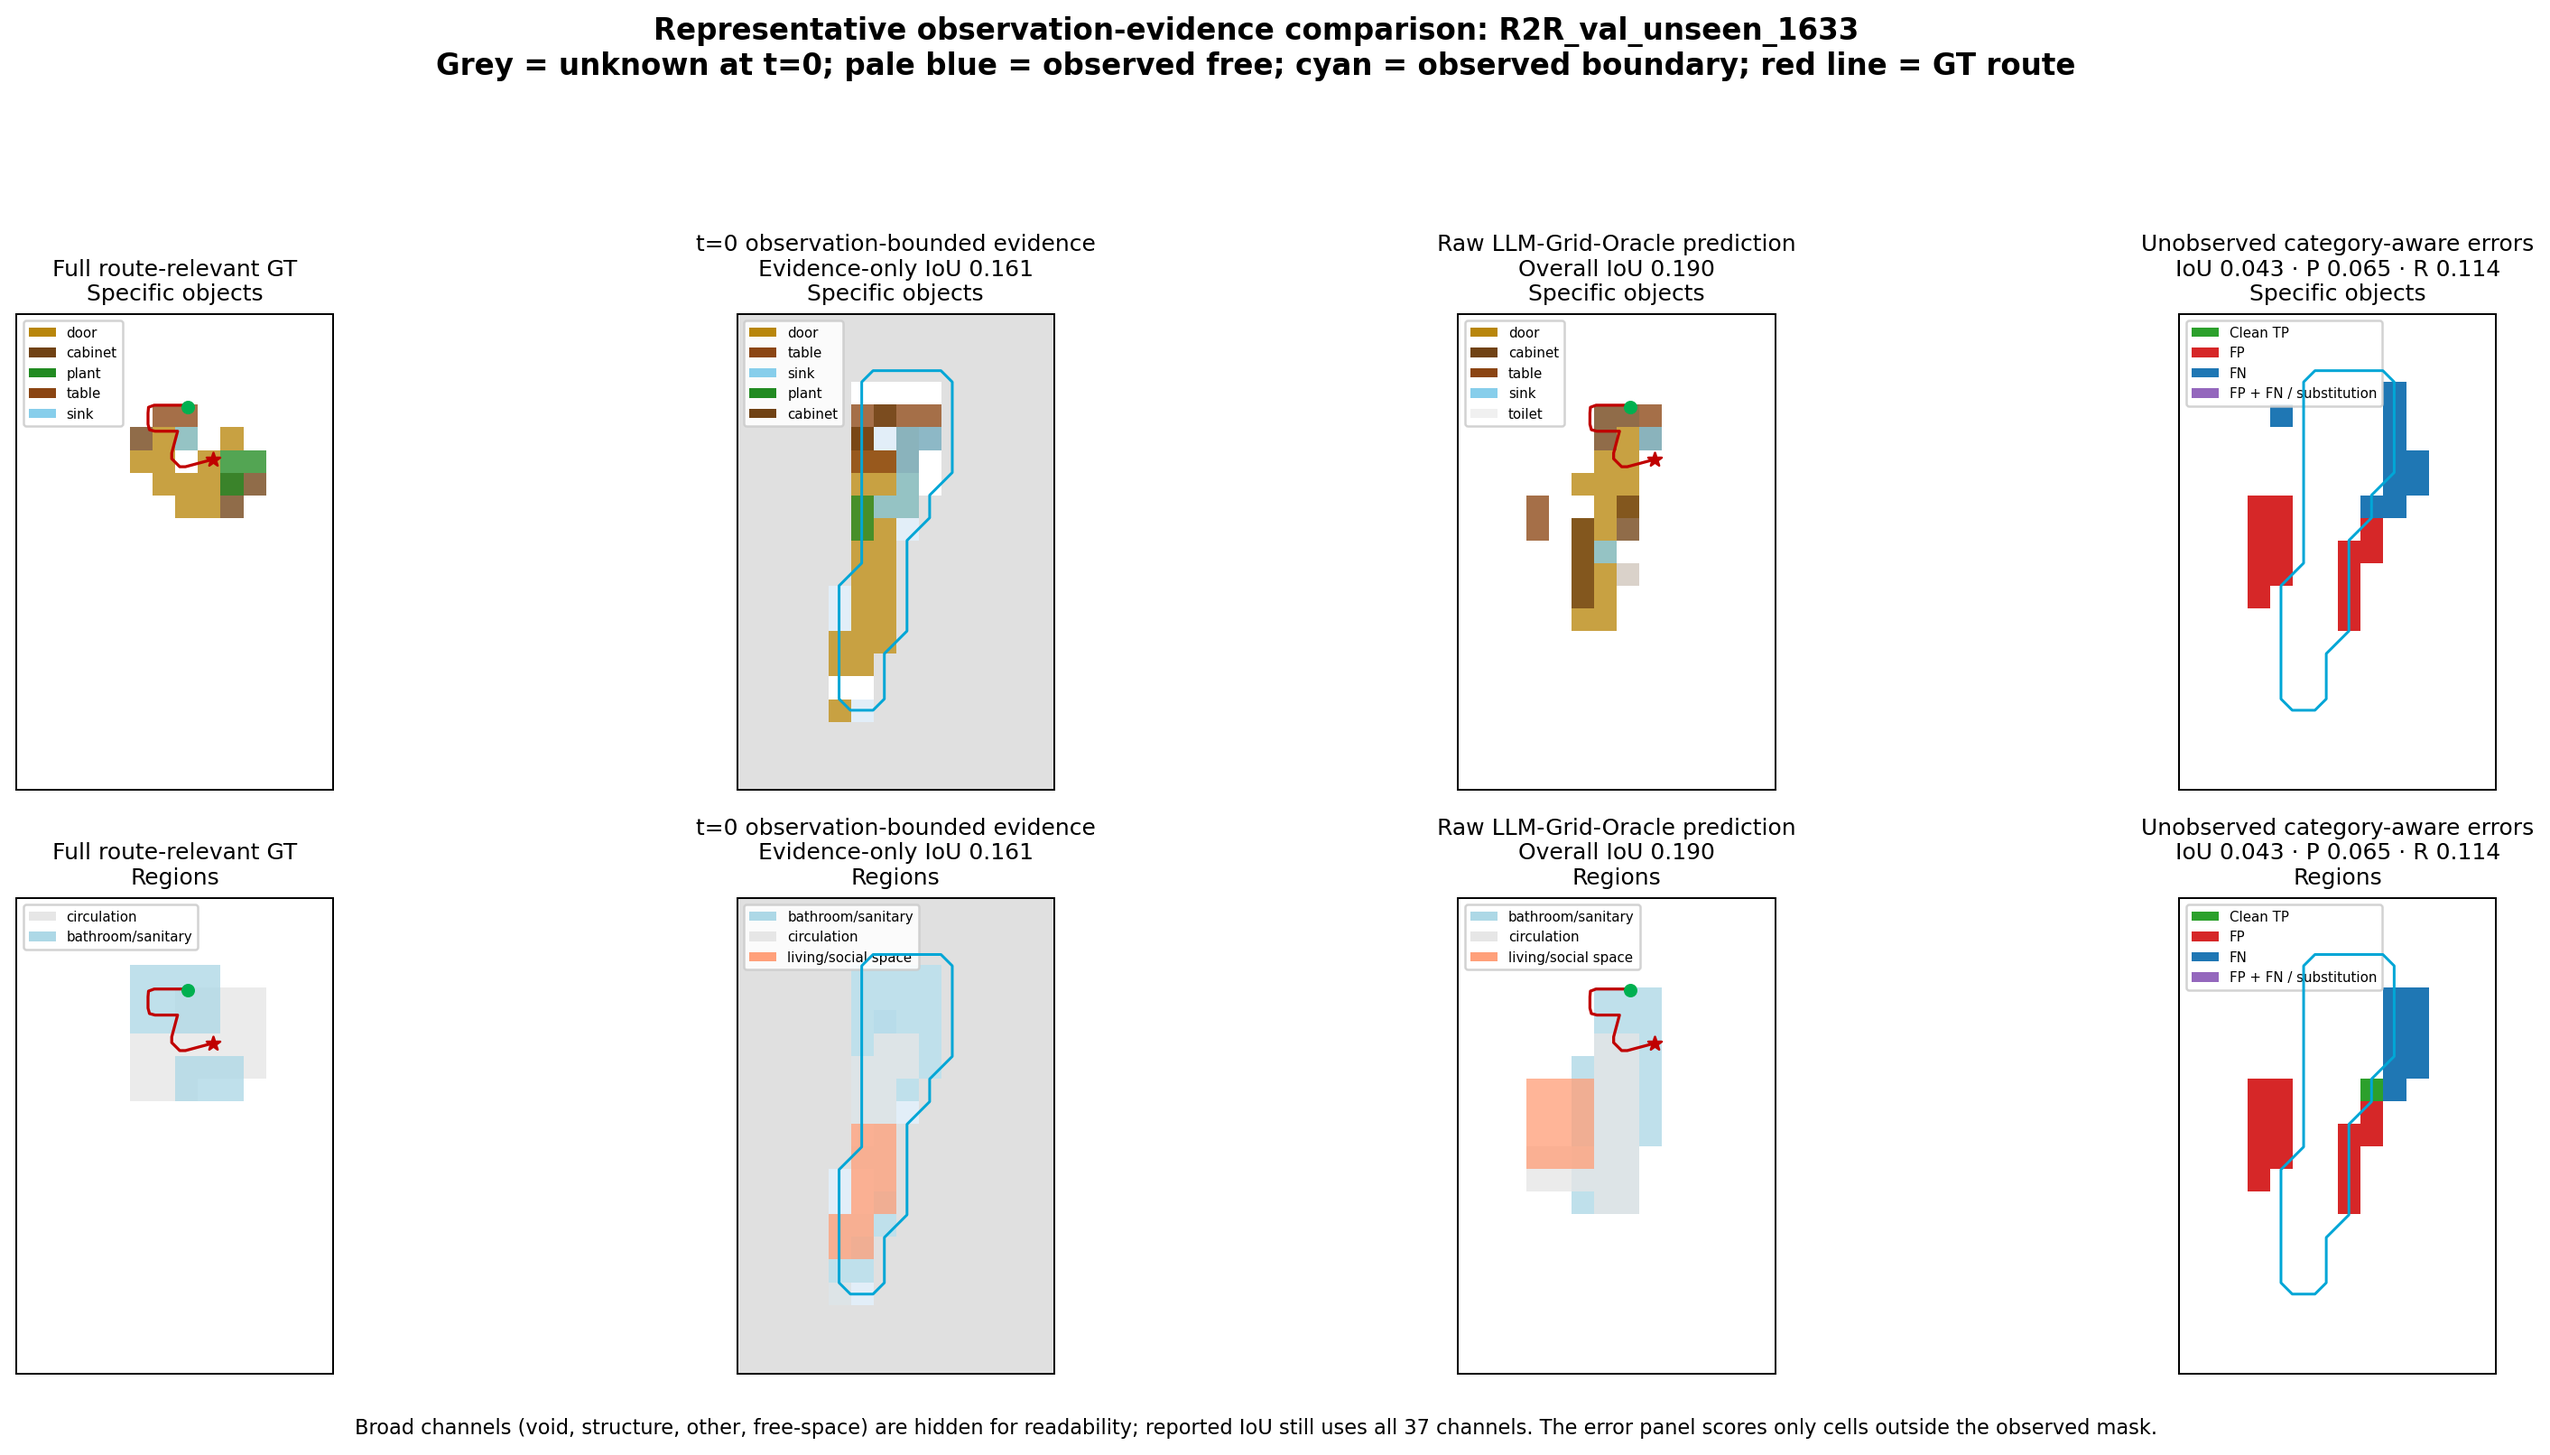
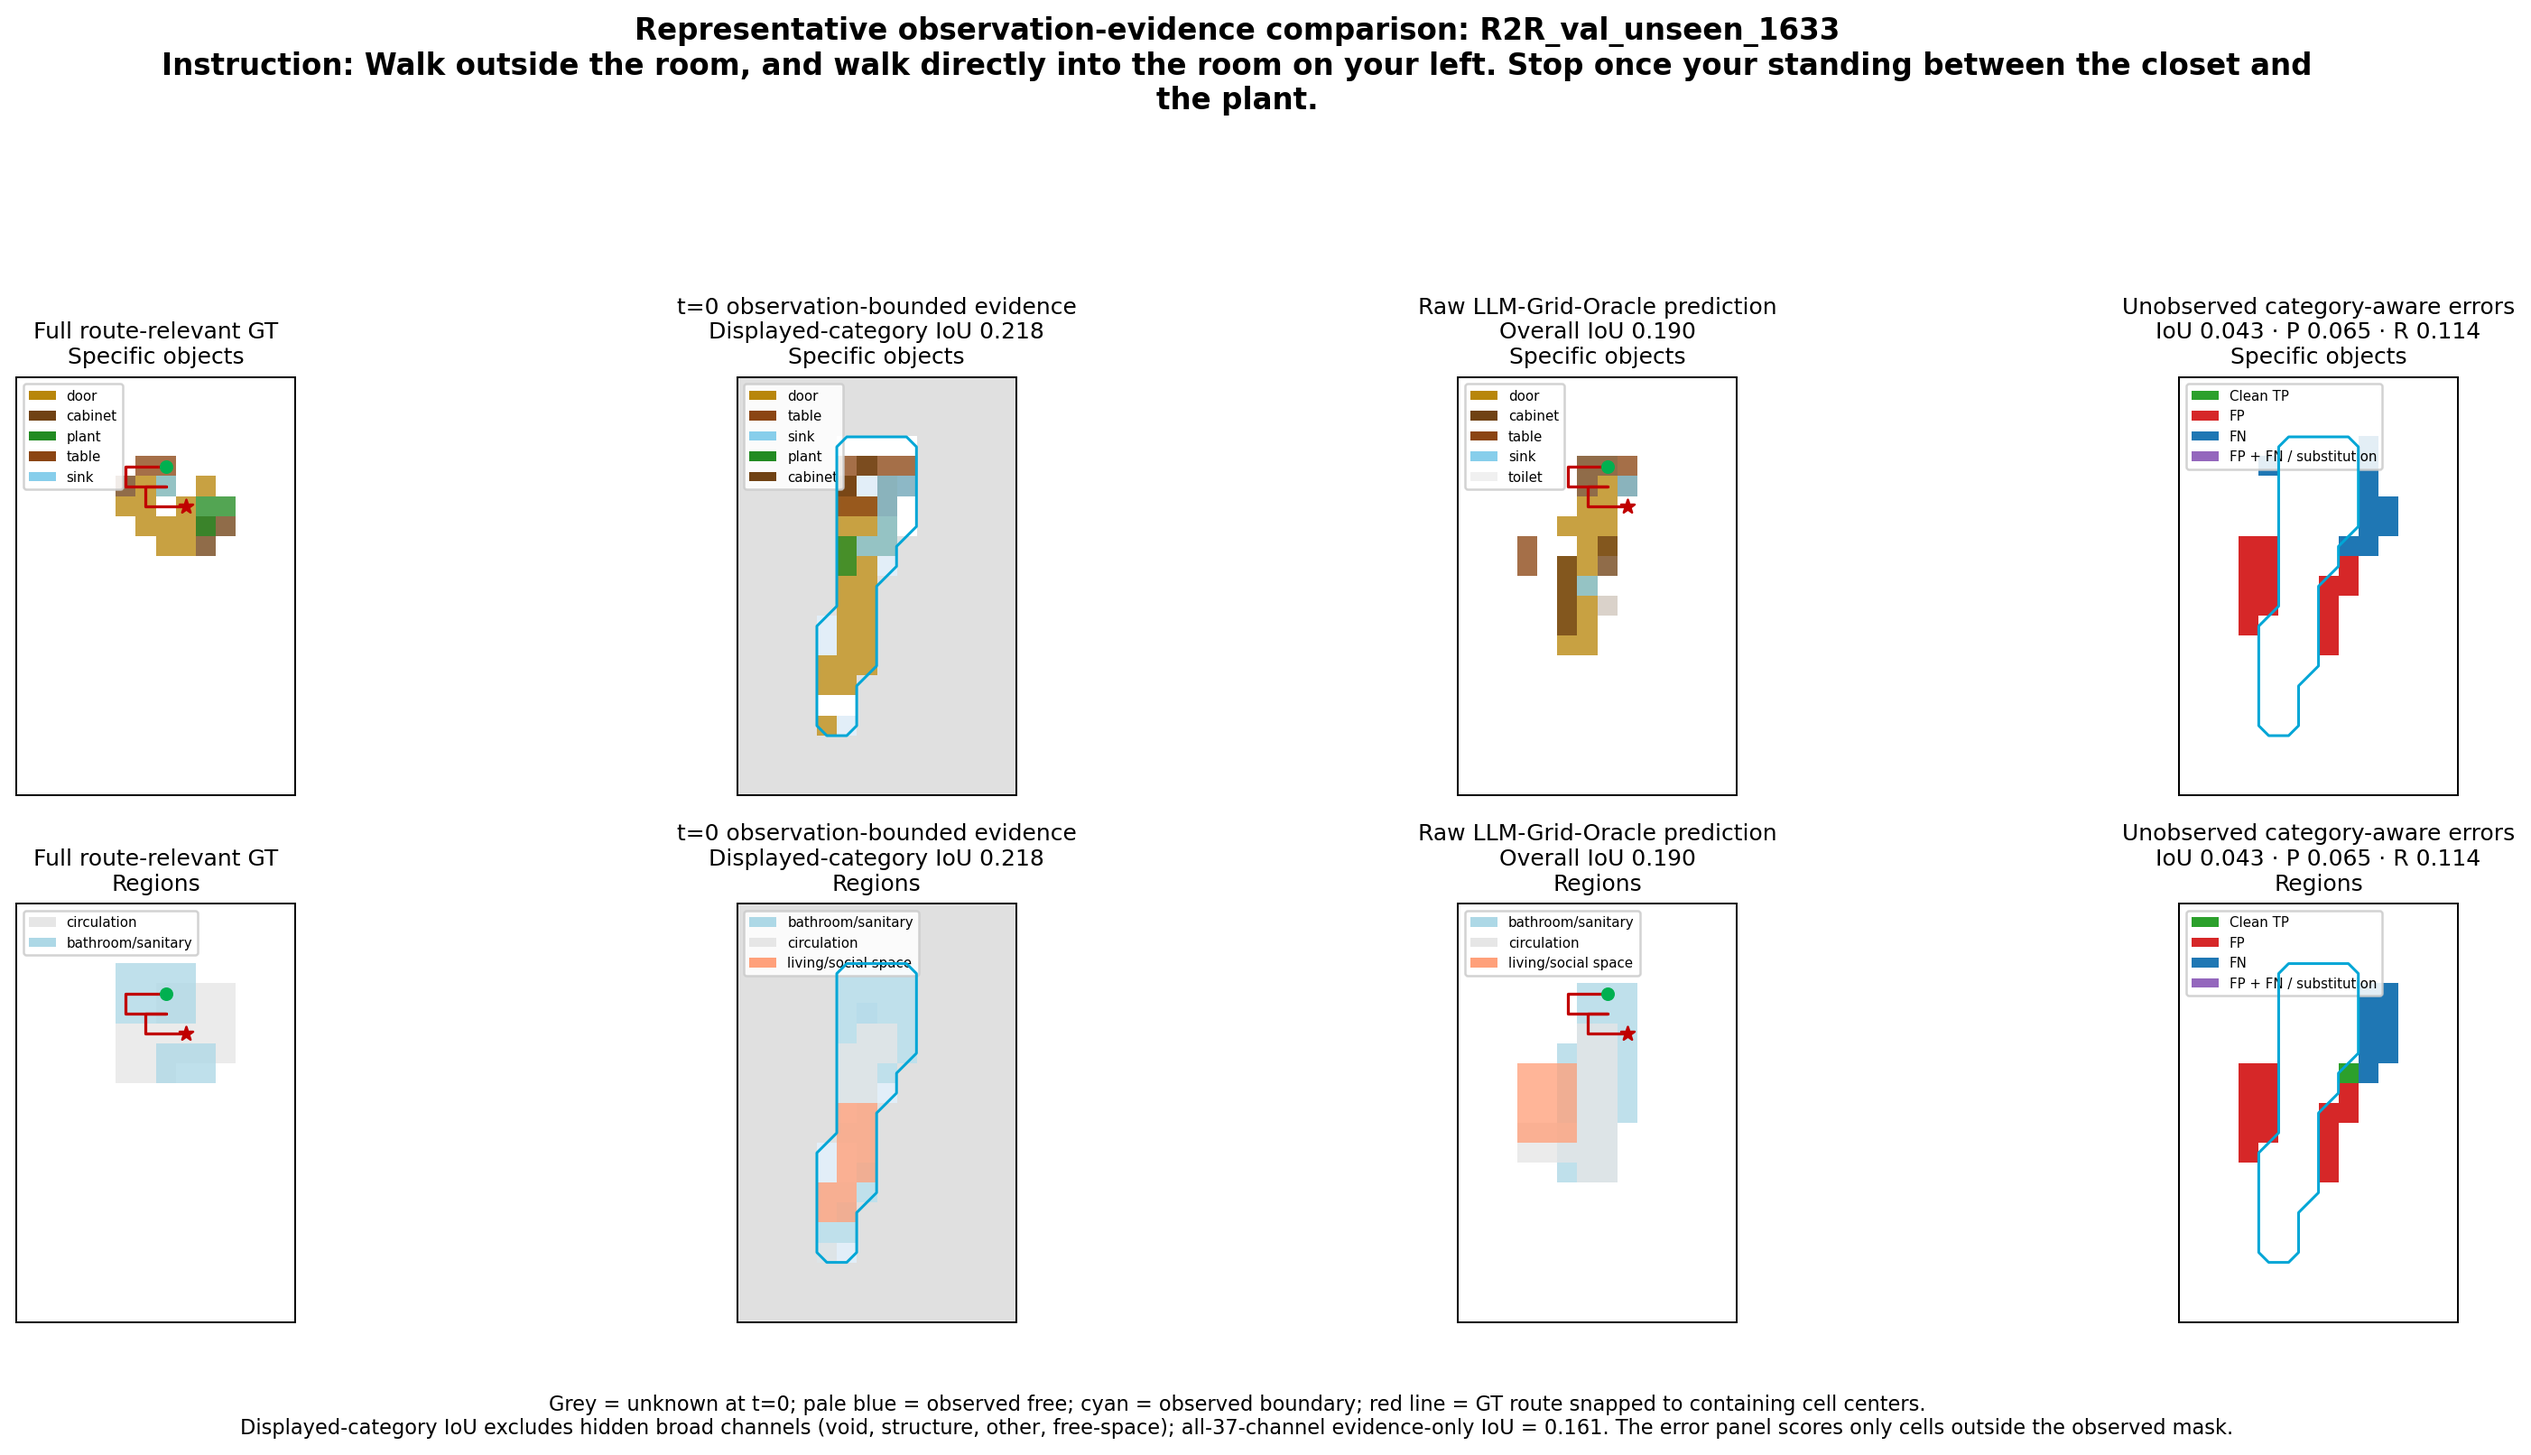
fix(analysis): align Oracle comparison

diff --git a/prior/analyze/d2026_07_26/presentation_visualizations.py b/prior/analyze/d2026_07_26/presentation_visualizations.py
@@ -4,6 +4,7 @@ from __future__ import annotations
 
 import csv
 import json
+import math
 import textwrap
 from dataclasses import dataclass
 from pathlib import Path
@@ -430,7 +431,17 @@ def _observation_geometry(
     free_rgba[..., :3] = mcolors.to_rgb("#DDEBF7")
     free_rgba[..., 3] = free_crop * 0.85
     axis.imshow(free_rgba, interpolation="nearest", extent=extent, zorder=-4)
+    _observed_contour(axis, observed)
+
+
+def _observed_contour(
+    axis: Axes,
+    observed: NDArray[np.bool_],
+) -> None:
+    rows, cols = observed.shape
     axis.contour(
+        np.arange(cols, dtype=np.float32) + 0.5,
+        np.arange(rows, dtype=np.float32) + 0.5,
         observed.astype(np.float32),
         levels=(0.5,),
         colors=("#00A6D6",),
@@ -446,7 +457,10 @@ def _route_overlay(
     scale: float,
 ) -> None:
     points = tuple(
-        tuple(coordinate / scale for coordinate in meters_to_grid(float(x), float(z)))
+        tuple(
+            math.floor(coordinate / scale) + 0.5
+            for coordinate in meters_to_grid(float(x), float(z))
+        )
         for x, z in boxes.ground_truth_trajectory
     )
     if not points:
@@ -546,13 +560,7 @@ def _draw_error(
         interpolation="nearest",
         extent=[col_min, col_max + 1, row_max + 1, row_min],
     )
-    axis.contour(
-        observed.astype(np.float32),
-        levels=(0.5,),
-        colors=("#00A6D6",),
-        linewidths=1.2,
-        zorder=15,
-    )
+    _observed_contour(axis, observed)
     axis.legend(
         handles=[
             mpatches.Patch(facecolor=color, label=label)
@@ -611,6 +619,15 @@ def render_oracle_comparison(
         target & unobserved[None, ...],
     )
     evidence_only_iou, _, _ = _binary_metrics(prompt_evidence, target)
+    displayed_target = np.array(target, copy=True)
+    displayed_evidence = np.array(prompt_evidence, copy=True)
+    for category in _BROAD_OBJECT_IDS:
+        displayed_target[category] = False
+        displayed_evidence[category] = False
+    displayed_evidence_iou, _, _ = _binary_metrics(
+        displayed_evidence,
+        displayed_target,
+    )
     _verify_metric(overall_iou, metrics.raw, "category_aware_raster_iou")
     _verify_metric(
         evidence_only_iou,
@@ -642,7 +659,7 @@ def render_oracle_comparison(
         "Full route-relevant GT",
         (
             "t=0 observation-bounded evidence\n"
-            f"Evidence-only IoU {_number(metrics.raw, 'evidence_only_category_aware_raster_iou'):.3f}"
+            f"Displayed-category IoU {displayed_evidence_iou:.3f}"
         ),
         f"Raw LLM-Grid-Oracle prediction\nOverall IoU {metrics.raster_iou:.3f}",
         (
@@ -728,22 +745,24 @@ def render_oracle_comparison(
         _route_overlay(axes[row_index, 2], boxes, scale=2)
     fig.suptitle(
         f"Representative observation-evidence comparison: {metrics.example_id}\n"
-        f"Grey = unknown at t=0; pale blue = observed free; cyan = observed boundary; "
-        f"red line = GT route",
+        f"Instruction: {textwrap.fill(metrics.instruction.strip(), width=115)}",
         fontsize=13,
         fontweight="bold",
     )
     fig.text(
         0.5,
         0.01,
-        "Broad channels (void, structure, other, free-space) are hidden for "
-        "readability; reported IoU still uses all 37 channels. "
-        "The error panel scores only cells outside the observed mask.",
+        "Grey = unknown at t=0; pale blue = observed free; cyan = observed "
+        "boundary; red line = GT route snapped to containing cell centers.\n"
+        "Displayed-category IoU excludes hidden broad channels "
+        f"(void, structure, other, free-space); all-37-channel evidence-only "
+        f"IoU = {evidence_only_iou:.3f}. The error panel scores only cells "
+        "outside the observed mask.",
         ha="center",
         fontsize=9,
     )
     figure_path.parent.mkdir(parents=True, exist_ok=True)
-    fig.tight_layout(rect=(0, 0.035, 1, 0.91))
+    fig.tight_layout(rect=(0, 0.07, 1, 0.89))
     fig.savefig(figure_path, dpi=180, bbox_inches="tight")
     plt.close(fig)
     return {
@@ -763,6 +782,7 @@ def render_oracle_comparison(
             "evidence_only_iou": _number(
                 metrics.raw, "evidence_only_category_aware_raster_iou"
             ),
+            "displayed_category_evidence_iou": displayed_evidence_iou,
             "unobserved_iou": _number(
                 metrics.raw, "unobserved_category_aware_raster_iou"
             ),

diff --git a/tests/analyze/test_llm_grid_presentation_analysis.py b/tests/analyze/test_llm_grid_presentation_analysis.py
@@ -2,6 +2,8 @@ from __future__ import annotations
 
 import json
 from pathlib import Path
+from types import SimpleNamespace
+from unittest.mock import Mock
 
 import numpy as np
 
@@ -9,6 +11,8 @@ from prior.analyze.d2026_07_26.category_metrics import _CategoryCounts
 from prior.analyze.d2026_07_26.presentation_visualizations import (
     EpisodeMetrics,
     _error_map,
+    _observed_contour,
+    _route_overlay,
     select_ordinary_examples,
 )
 
@@ -119,3 +123,22 @@ def test_unobserved_error_map_distinguishes_substitution() -> None:
     result = _error_map(predicted, target, observed)
 
     assert result.tolist() == [[1, 2], [3, 4]]
+
+
+def test_observation_overlays_use_cell_centers() -> None:
+    axis = Mock()
+    observed = np.zeros((2, 3), dtype=np.bool_)
+
+    _observed_contour(axis, observed)
+    _route_overlay(
+        axis,
+        SimpleNamespace(ground_truth_trajectory=((0.1, 0.1), (1.1, 1.1))),
+        scale=2,
+    )
+
+    contour_x, contour_y, _ = axis.contour.call_args.args
+    assert contour_x.tolist() == [0.5, 1.5, 2.5]
+    assert contour_y.tolist() == [0.5, 1.5]
+    route_cols, route_rows = axis.plot.call_args.args
+    assert route_cols == (0.5, 1.5)
+    assert route_rows == (0.5, 1.5)

diff --git a/docs/daily/2026-07-26.md b/docs/daily/2026-07-26.md
@@ -254,9 +254,17 @@ unobserved IoU/precision/recall 仅为 `0.0430/0.0645/0.1143`
 这与 matched-control 全量统计一致：GT semantics 的 `t=0` observation
 能提供局部增益，但目前没有证据表明它带来了强的 unseen-space completion。
 
-图中为了可读性隐藏 broad channels，但标注的 IoU 仍按全部 37 channels
-计算；中间列使用 `prompt_semantic_grid`，没有偷用 artifact 中被过滤的
-`structure/other/free-space`，第三列也没有使用
+后续视觉对齐复核确认底层坐标 frame 没有平移：该例 evidence start 与
+GT route start 仅相差 `1.36e-5 m`，小范围 shift sweep 也在零平移取得最高
+IoU。原图的 cyan contour 因 `imshow` 与 `contour` 的 cell-center 约定不同，
+显示上偏了半格，现已统一到 `(row+0.5, col+0.5)`；GT route 也仅为汇报显示
+snap 到所在 coarse cell 的中心，没有对数据施加固定平移。图中同时加入了
+user instruction。
+
+图中为了可读性隐藏 broad channels；中间列现在标注与可见内容一致的
+displayed-category IoU `0.2177`，并在页脚保留全部 37 channels 的
+evidence-only IoU `0.1608`。中间列使用 `prompt_semantic_grid`，没有偷用
+artifact 中被过滤的 `structure/other/free-space`，第三列也没有使用
 `prediction ∪ evidence` 后处理。
 
 <details>
